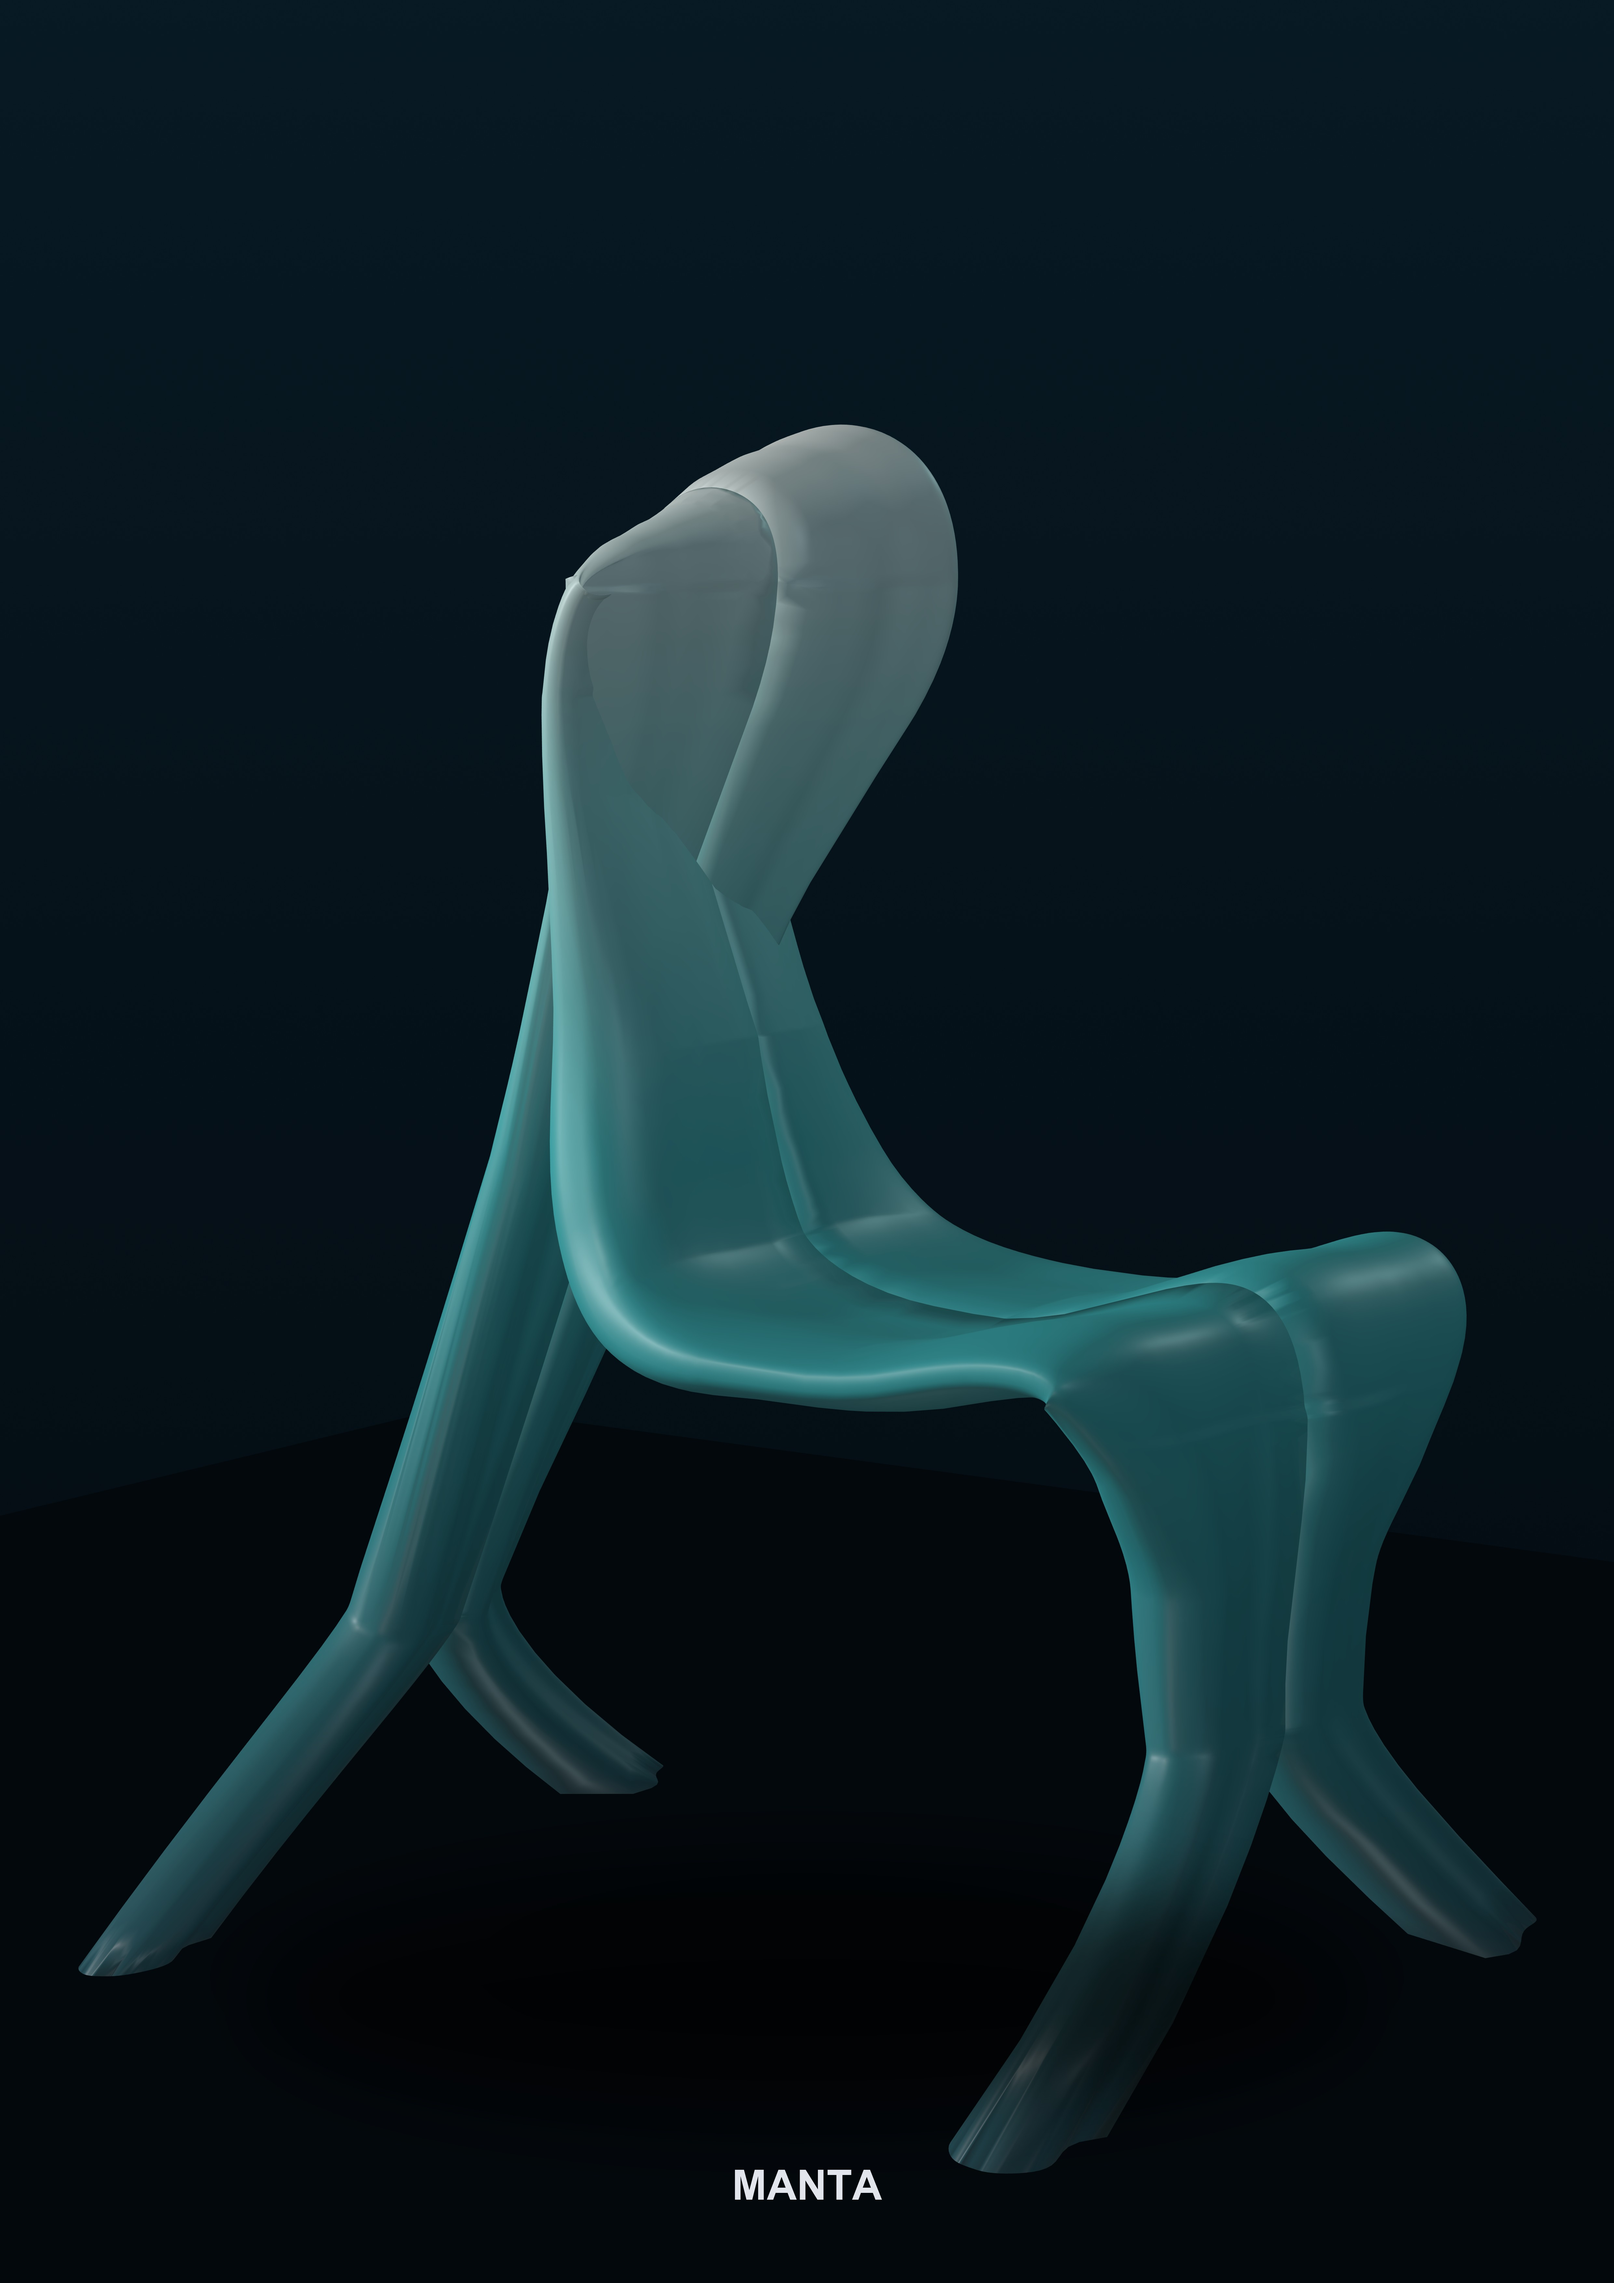
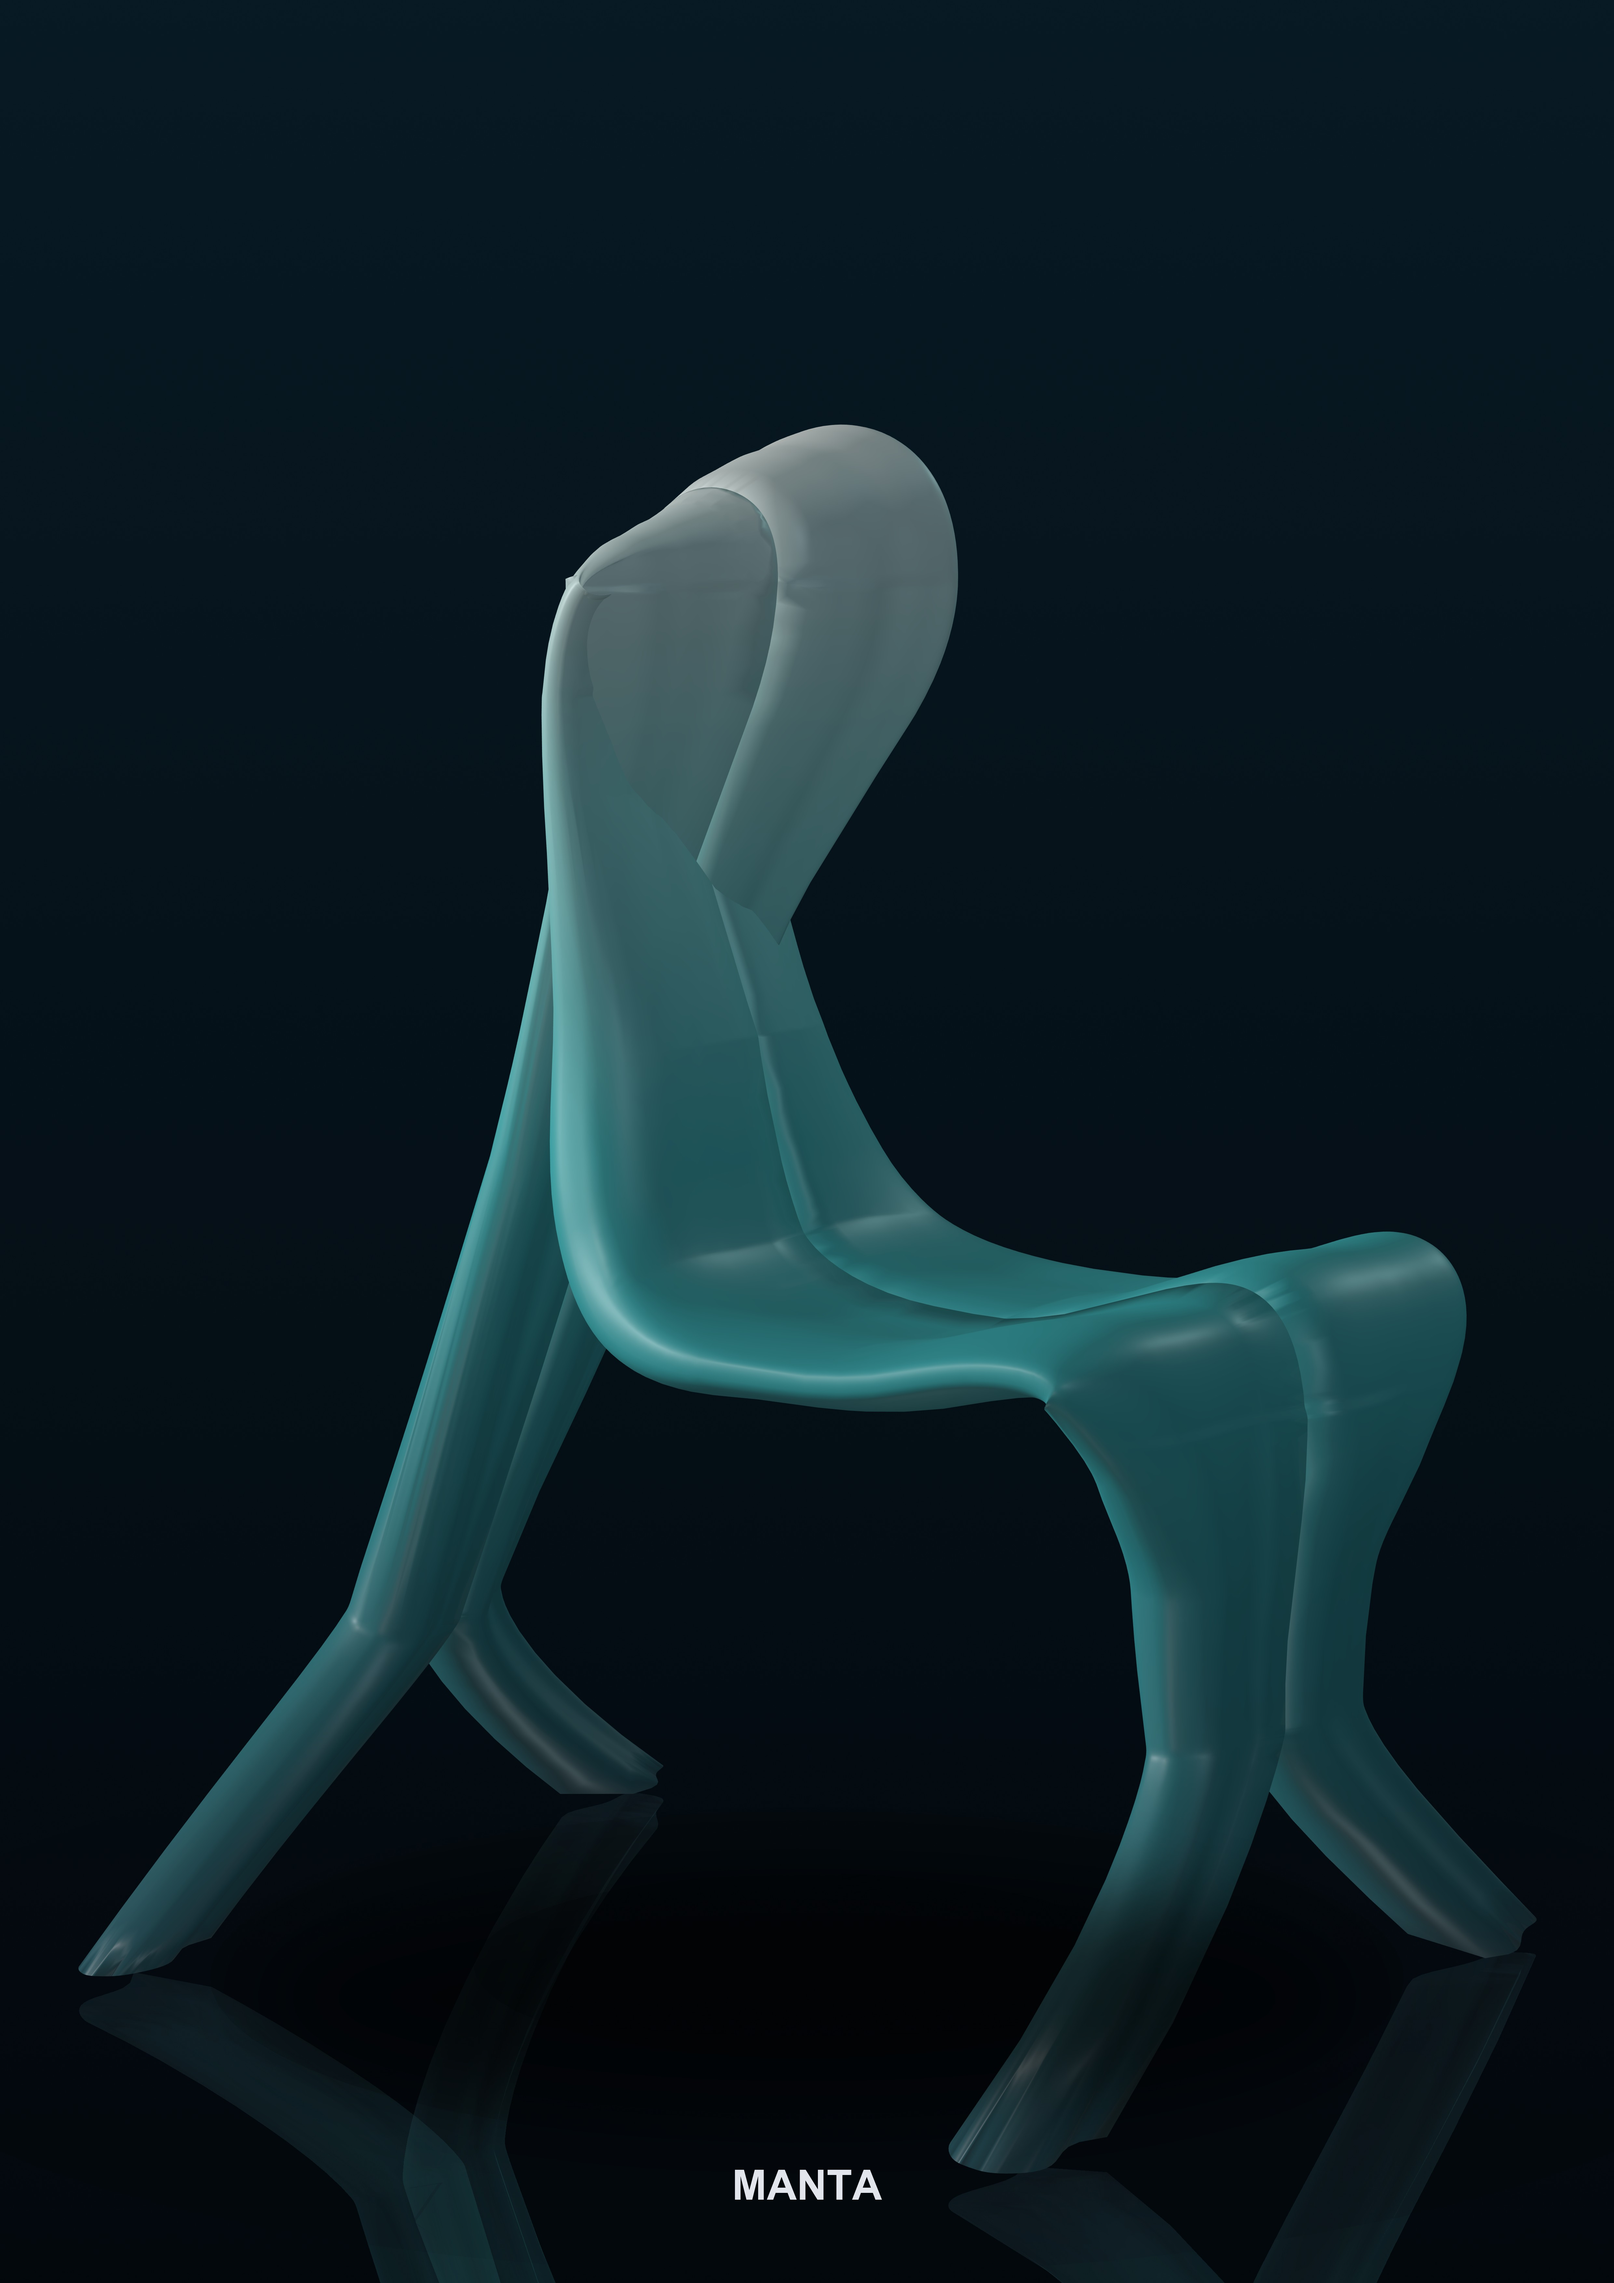
Remove the opaque floor plane that was blocking the reflection from every angle except pure side-on; shadow discs alone now ground the object at every camera angle

Changed region(s): [[0.2187, 0.9052, 0.3437, 1.0], [0.0937, 0.874, 0.2187, 0.9364], [0.6874, 0.9676, 0.7498, 1.0]]

diff --git a/manta_render.py b/manta_render.py
@@ -95,20 +95,17 @@ def render(fname, elev, azim, size, bg_top, bg_bot, zoom=1.0, focal=None, parall
         L.SetColor(*cc); L.SetIntensity(inten)
         ren.AddLight(L)
 
-    # ground plane + layered soft contact shadow + faint polish reflection —
-    # grounds the object (the buttress-root feet need a floor to read
-    # against) and makes the material feel solid, not just glassy
+    # layered soft contact shadow + faint polish reflection — grounds the
+    # object (the buttress-root feet need a floor to read against) and
+    # makes the material feel solid, not just glassy.
+    # NOTE: deliberately NO opaque floor plane here — an opaque plane at
+    # floor level blocks the line of sight to the reflection (which sits
+    # BELOW that level) from any elevated/downward camera angle. It only
+    # looked fine in the pure side-on view because a flat plane seen
+    # perfectly edge-on has no projected area, so it couldn't occlude
+    # anything there. The shadow discs alone read as "floor" against the
+    # gradient background at every angle.
     floor_z = zmin - 0.01 * HGT
-    plane = vtk.vtkPlaneSource()
-    plane.SetOrigin(ctr[0]-diag, ctr[1]-diag, floor_z)
-    plane.SetPoint1(ctr[0]+diag, ctr[1]-diag, floor_z)
-    plane.SetPoint2(ctr[0]-diag, ctr[1]+diag, floor_z)
-    pm = vtk.vtkPolyDataMapper(); pm.SetInputConnection(plane.GetOutputPort())
-    pa = vtk.vtkActor(); pa.SetMapper(pm)
-    pa.GetProperty().SetColor(*bg_bot)
-    pa.GetProperty().SetAmbient(1.0); pa.GetProperty().SetDiffuse(0.0)
-    ren.AddActor(pa)
-
     for rad, op in [(WID * 0.28, 0.30), (WID * 0.50, 0.16), (WID * 0.80, 0.06)]:
         shadow = vtk.vtkDiskSource()
         shadow.SetInnerRadius(0); shadow.SetOuterRadius(rad)
